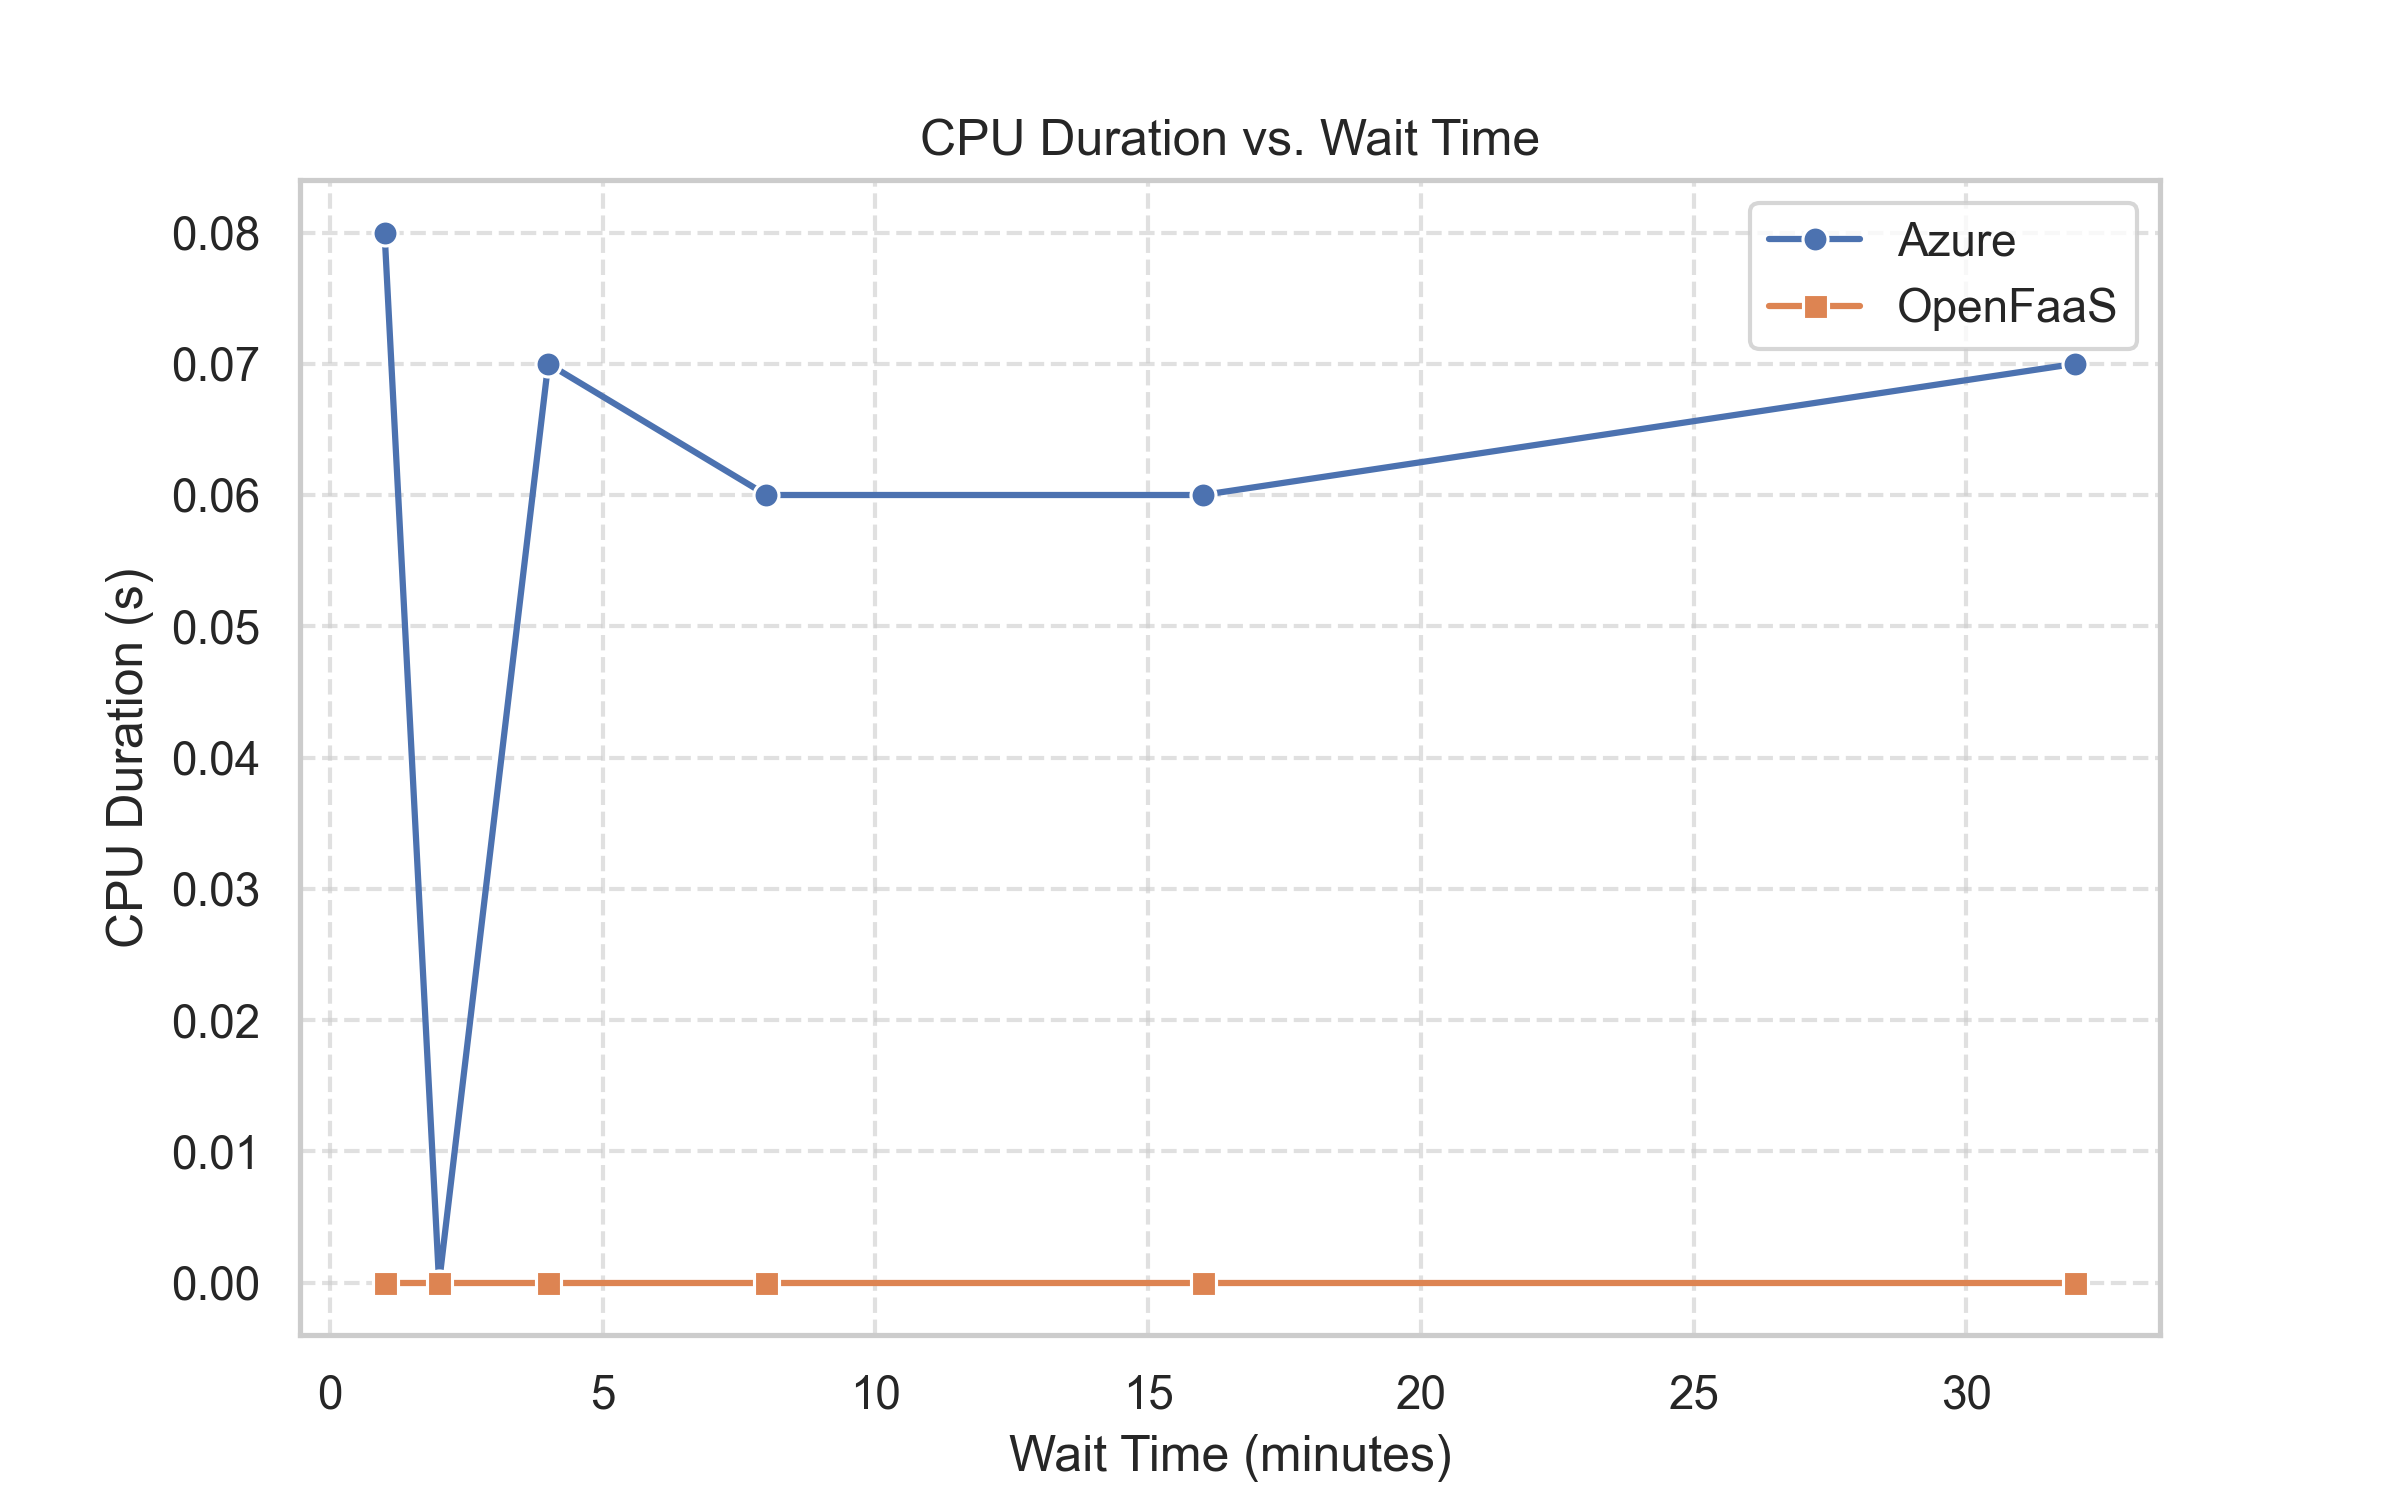
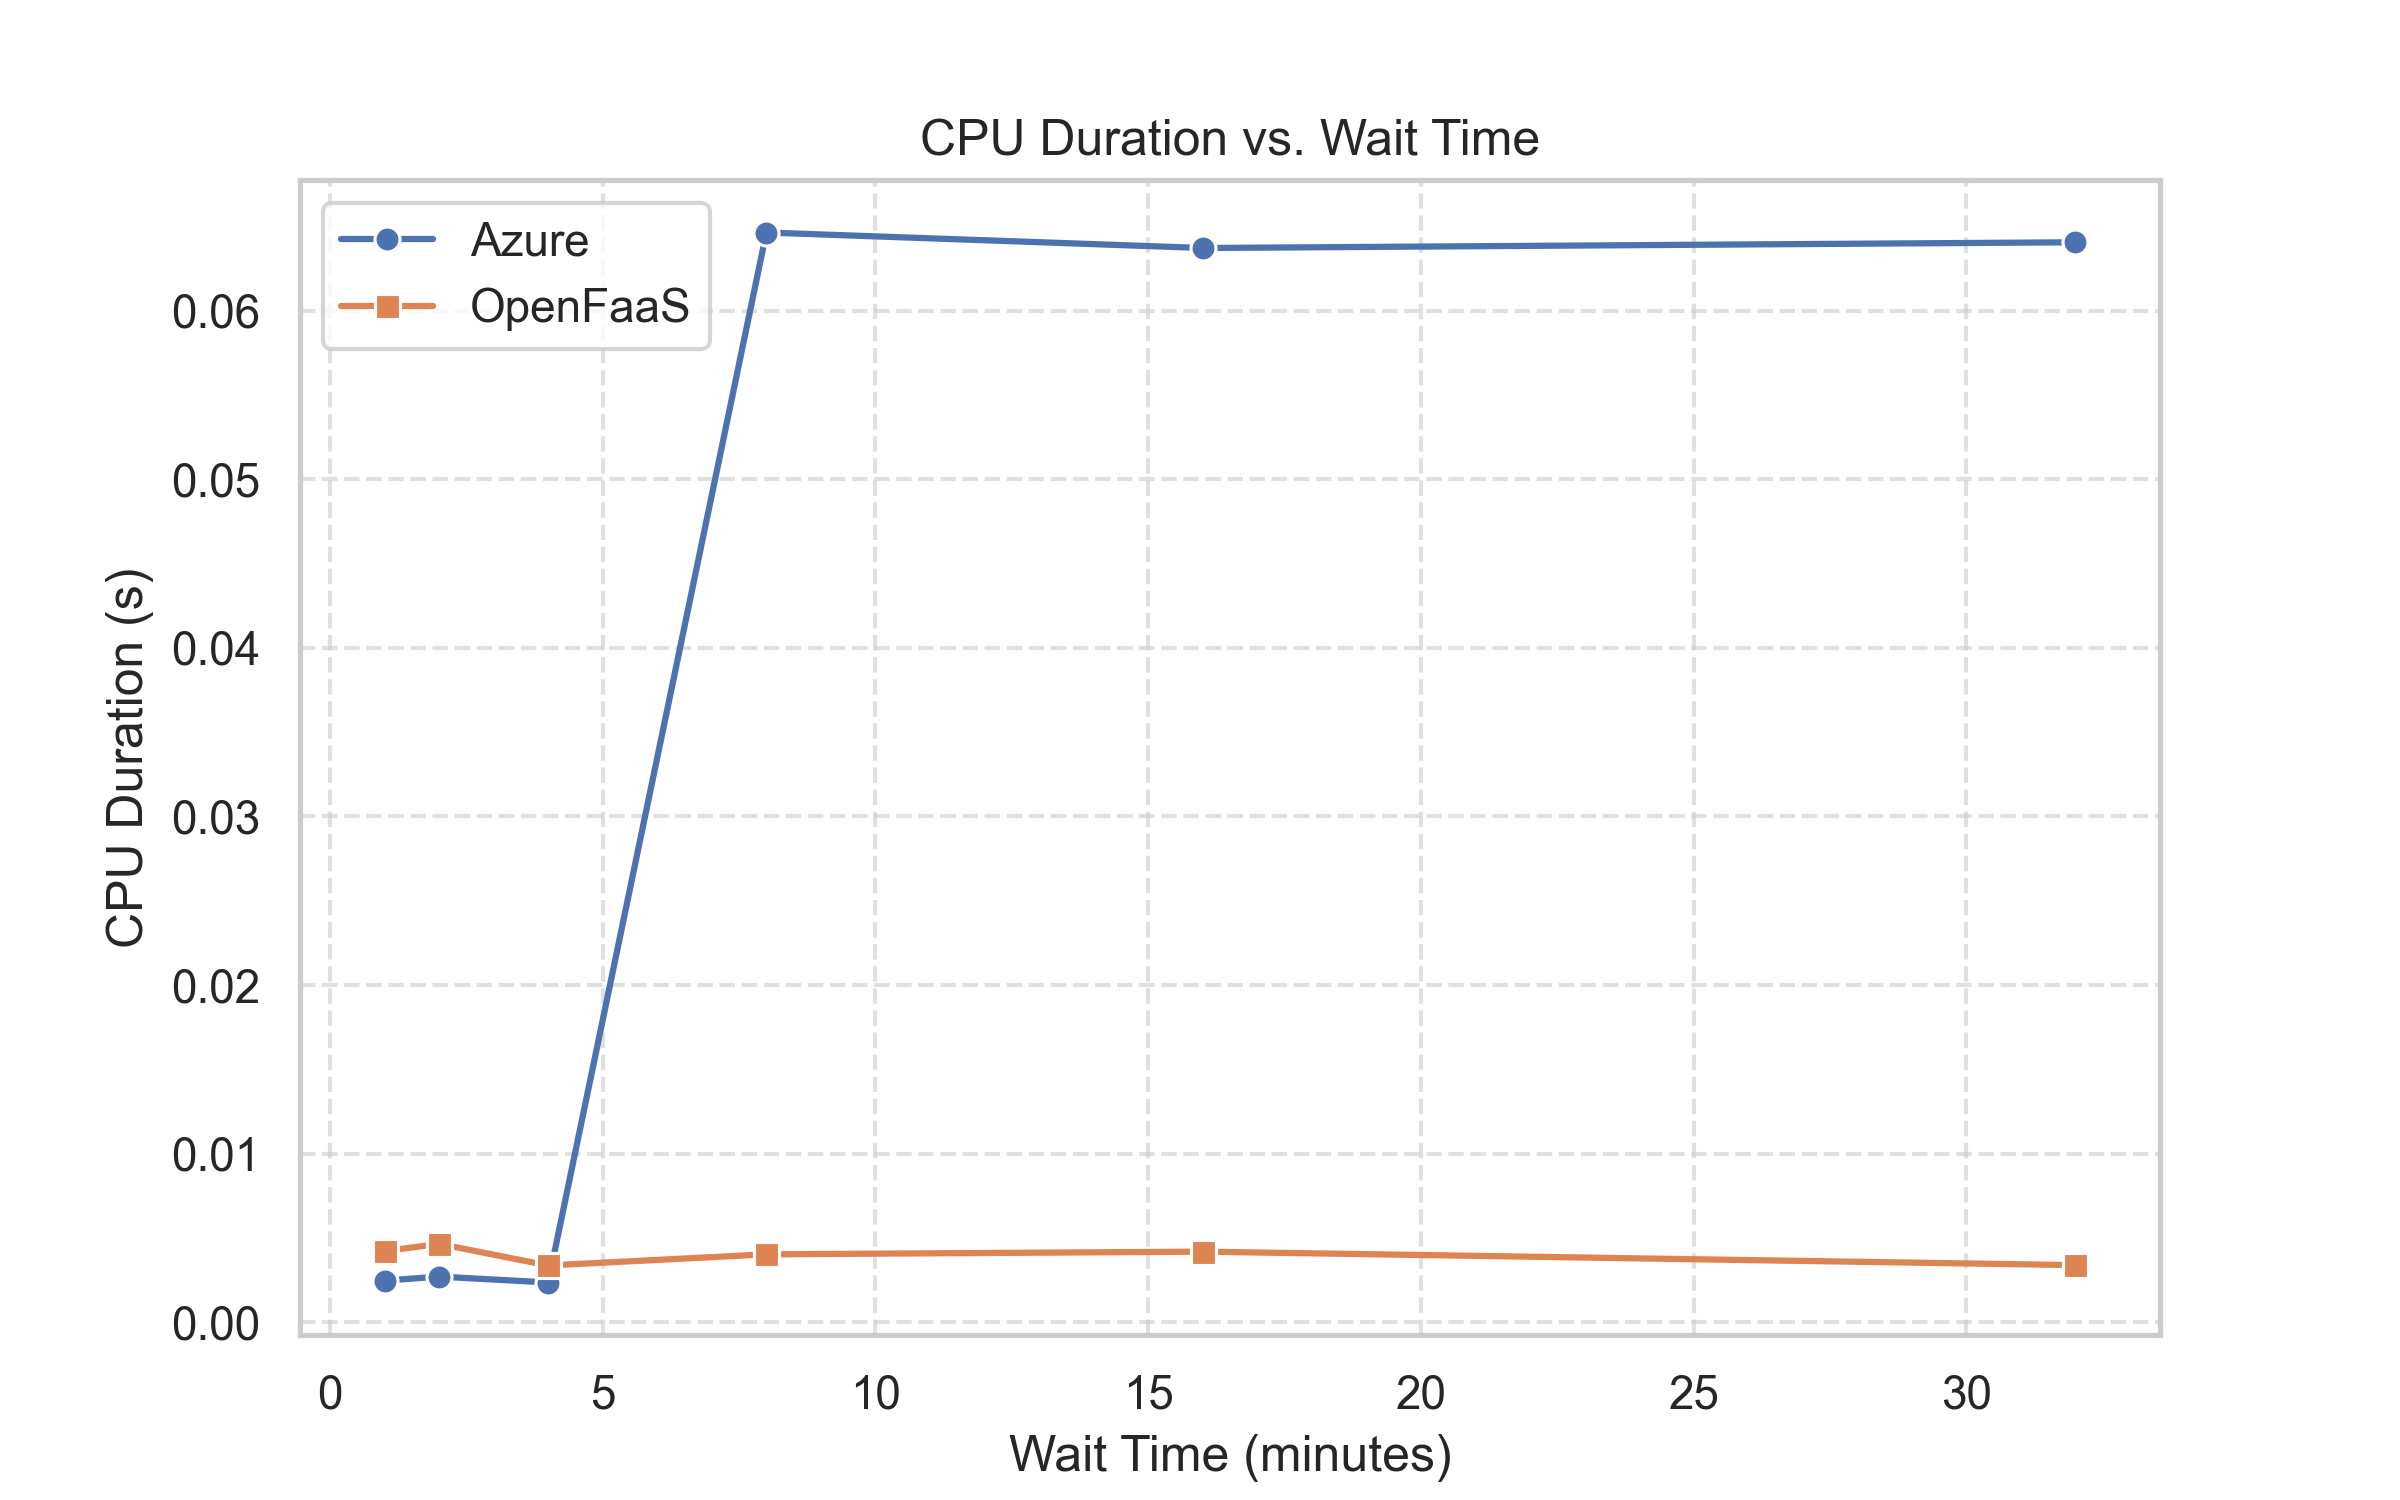
More results.

diff --git a/cold_start/measure_cold_start.py b/cold_start/measure_cold_start.py
@@ -29,6 +29,35 @@ results = []
 
 print("Starting cold start detection...")
 
+# Do initial call to then start exponential backoff
+print(f"First call to functions before starting exponential search...")
+for platform, url in [("Azure", AZURE_FUNCTION_URL), ("OpenFaaS", OPENFAAS_FUNCTION_URL)]:
+        initial_start_time = time.time()
+        
+        try:
+            response = requests.get(url, params={"url": IMAGE_URL})
+            initial_elapsed_time = time.time() - initial_start_time
+
+            if response.status_code == 200:
+                result = response.json()
+                entry = {
+                    "platform": platform,
+                    "wait_time": 0,
+                    "elapsed_time": initial_elapsed_time,   
+                    "total_duration": result["overall_duration"],
+                    "network_duration": result["network_duration"],
+                    "cpu_duration": result["cpu_duration"],
+                    "ml_duration": result["ml_duration"],
+                }
+                results.append(entry)
+                print(f"{platform}: {entry}")
+
+            else:
+                print(f"{platform}: Failed with status {response.status_code}")
+
+        except Exception as e:
+            print(f"{platform}: Request failed - {e}")
+
 wait_time = initial_wait_time
 while wait_time <= max_wait_time:
     print(f"\nWaiting {wait_time // 60} minutes before calling function...")
@@ -44,7 +73,6 @@ while wait_time <= max_wait_time:
 
             if response.status_code == 200:
                 result = response.json()
-                cold_start_detected = elapsed_time > 2 * result["overall_duration"]  # Heuristic check
                 entry = {
                     "platform": platform,
                     "wait_time": wait_time,
@@ -53,7 +81,6 @@ while wait_time <= max_wait_time:
                     "network_duration": result["network_duration"],
                     "cpu_duration": result["cpu_duration"],
                     "ml_duration": result["ml_duration"],
-                    "cold_start": cold_start_detected
                 }
                 results.append(entry)
                 print(f"{platform}: {entry}")
@@ -70,7 +97,7 @@ while wait_time <= max_wait_time:
 # Save results to CSV
 csv_filename = "cold_start_times.csv"
 with open(csv_filename, "w", newline="") as csvfile:
-    fieldnames = ["platform", "wait_time", "elapsed_time", "total_duration", "network_duration", "cpu_duration", "ml_duration", "cold_start"]
+    fieldnames = ["platform", "wait_time", "elapsed_time", "total_duration", "network_duration", "cpu_duration", "ml_duration"]
     writer = csv.DictWriter(csvfile, fieldnames=fieldnames)
     writer.writeheader()
     writer.writerows(results)

diff --git a/cold_start/plot_cold_start.py b/cold_start/plot_cold_start.py
@@ -3,7 +3,7 @@ import matplotlib.pyplot as plt
 import seaborn as sns
 
 # Load data
-df = pd.read_csv("cold_start_times.csv")
+df = pd.read_csv("old_cold_start_times.csv")
 
 # Convert wait_time to minutes for better readability
 df["wait_time_minutes"] = df["wait_time"] / 60
